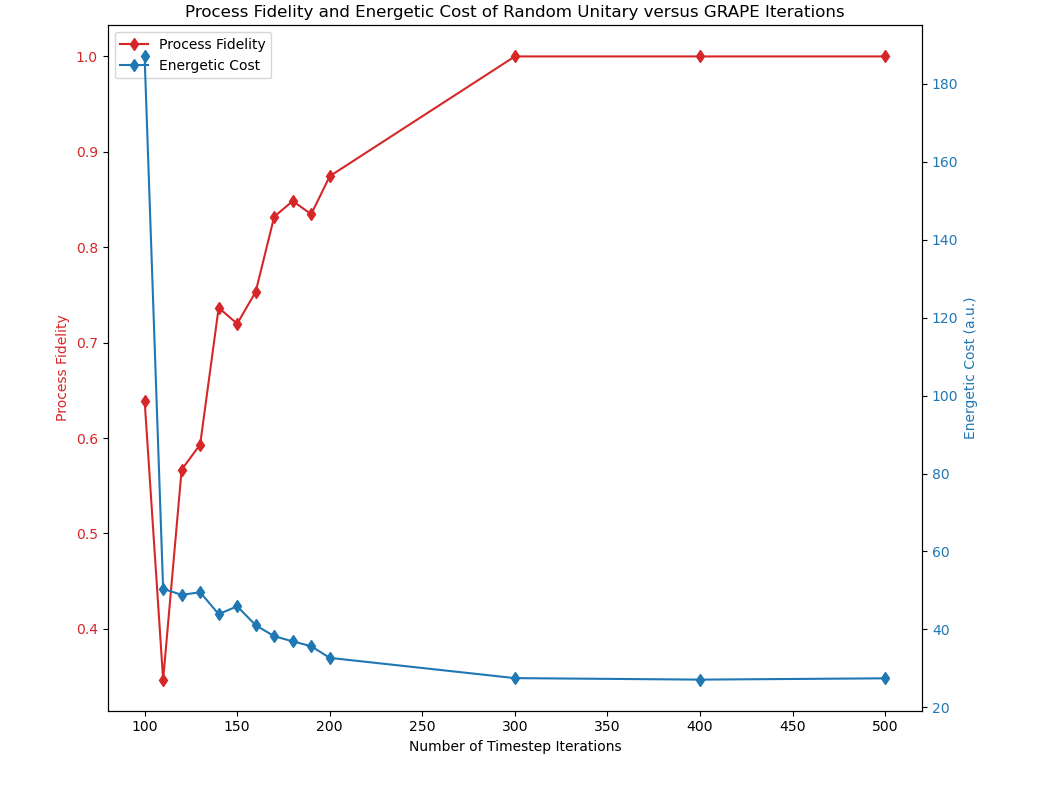
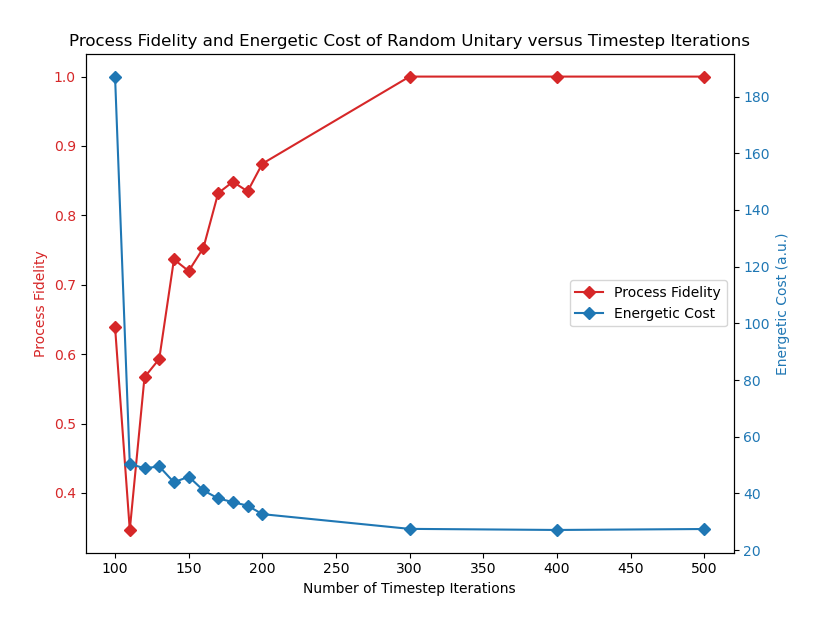
Plots

diff --git a/Test_Files/Plot_Test_FIle.py b/Test_Files/Plot_Test_FIle.py
@@ -1,0 +1,29 @@
+import numpy as np
+import matplotlib.pyplot as plt
+import scipy as sc
+from scipy.interpolate import interp1d, interp2d
+
+timesteps = [100, 110, 120, 130, 140, 150, 160, 170, 180, 190, 200, 300, 400, 500]
+EC = [187.05051764472736, 50.420159546442015, 48.87883669124049, 49.536472578131246, 43.926669077185466, 45.9275789459136, 41.07273846210889, 38.26016246337677, 36.93743885477965, 35.68583996991774, 32.70198871124866, 27.503299242170918, 27.11934424422788, 27.45246913264507]
+F = [0.6392287613759335, 0.34673420453342646, 0.5668501022849716, 0.5931308440243787, 0.736599838650287, 0.7197777700250999, 0.7532992712253753, 0.8319857048506297, 0.8484303074812057, 0.8345913231158861, 0.8744753109218228, 1.0000000000000018, 1.0000000000000022, 1.0000000000000004]
+
+fig, ax1 = plt.subplots()
+
+color = 'tab:red'
+ax1.set_xlabel('Number of Timestep Iterations')
+ax1.set_ylabel('Process Fidelity', color=color)
+lns1 = ax1.plot(timesteps, F, color=color, label='Process Fidelity', linestyle = '-', marker = 'D')
+ax1.tick_params(axis='y', labelcolor=color)
+ax2 = ax1.twinx()  
+
+color = 'tab:blue'
+ax2.set_ylabel('Energetic Cost (a.u.)', color=color) 
+lns2 = ax2.plot(timesteps, EC, color=color, label='Energetic Cost', linestyle = '-', marker = 'D')
+ax2.tick_params(axis='y', labelcolor=color)
+
+fig.tight_layout() 
+lns = lns1+lns2
+labs = [l.get_label() for l in lns]
+ax1.legend(lns, labs, loc='center right')
+plt.title('Process Fidelity and Energetic Cost of Random Unitary versus Timestep Iterations')
+plt.show()
